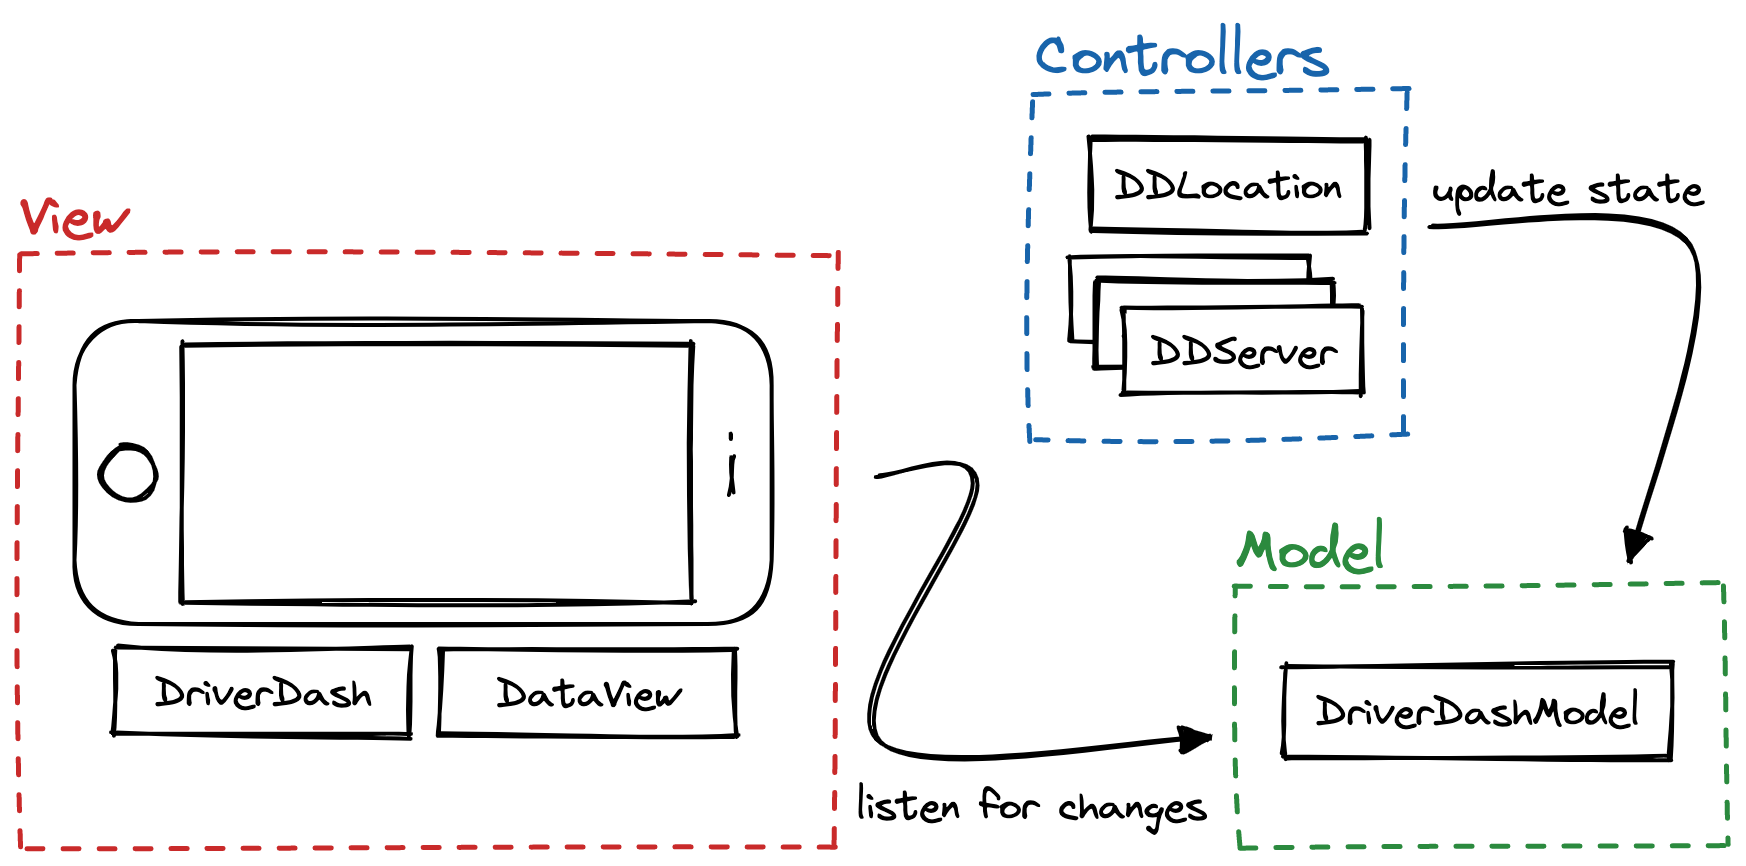
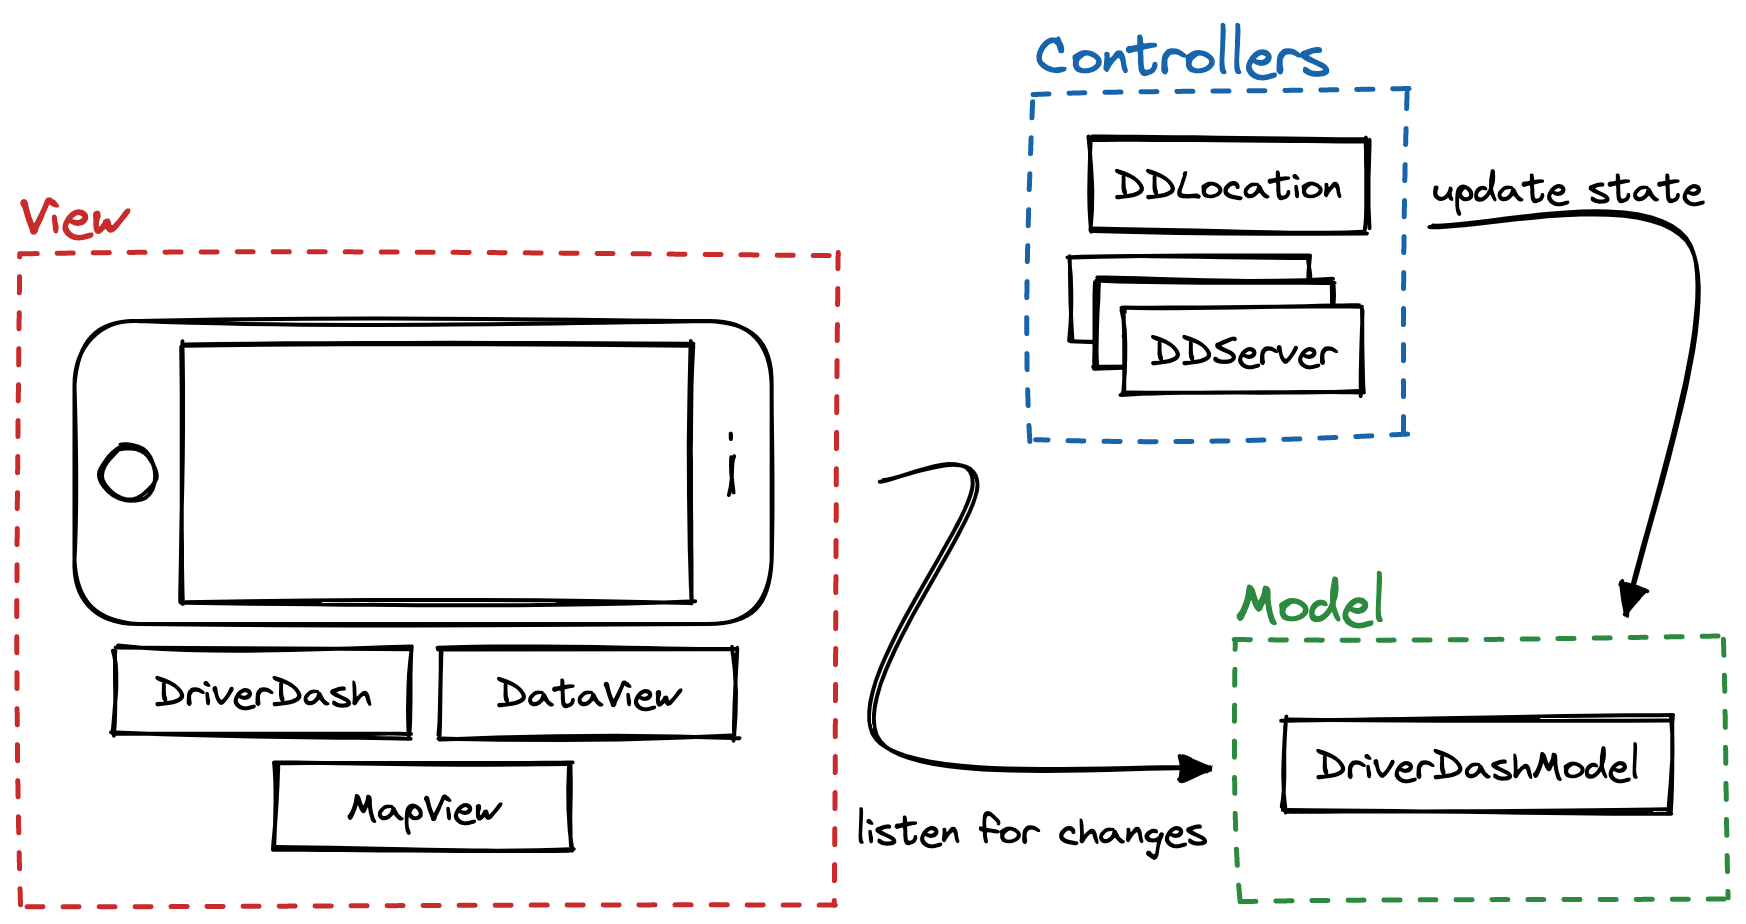
Update readme

diff --git a/README.md b/README.md
@@ -46,7 +46,7 @@ Due to constraints imposed by the ESP32s, we have switched from HTTP/WebSockets 
 
 ## Structure
 
-`DriverDash` and `DataView` control the appearance of the iPhone app, laying out the values and numbers and indicators and displaying the data. To handle state and effects, the project uses the Model-View-Controller (MVC) architecture, with `DriverDash` as the view.
+`DriverDash` (the root view), `DataView`, and `MapView` control the appearance of the iPhone app, laying out the values and numbers and indicators and displaying the data. To handle state and effects, the project uses the Model-View-Controller (MVC) architecture, with `DriverDash` as the view.
 
 `DriverDashModel` is the model, and is responsible for storing the state for the app, such as the current speed and power values and the connection statuses. Every file within the `Controllers/` directory is a controller responsible for managing distinct aspects of the app. `DDLocation` gets location data from the phone to use as a fallback, and `DDServer` runs the TCP servers on separate threads and updates the model when they receive information. Overall, the structure looks like this:
 
